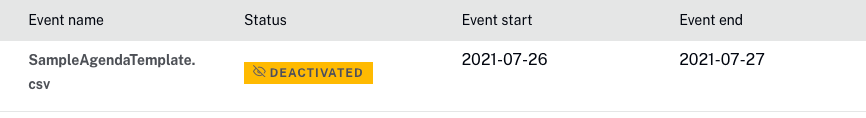
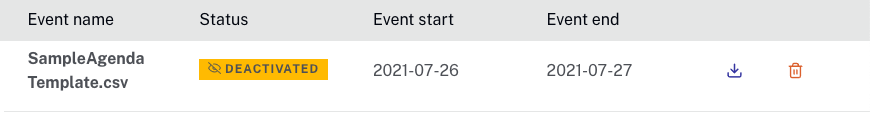
updates

diff --git a/_site/experiences/virtual-event/managing-agenda-virtual-event-experience.html b/_site/experiences/virtual-event/managing-agenda-virtual-event-experience.html
@@ -723,7 +723,7 @@ function doGTranslate(lang_pair) {if(lang_pair.value)lang_pair=lang_pair.value;i
         <figure class="bcls-figure"><img class="bcls-image--no-border" alt="" src="/assets/images/experiences/virtual-event/agenda-imported.png" /></figure>
       </li>
     </ol>
-    <p>If any errors occur during the agenda import, a message will be displayed. After the import, the <strong>Status</strong> will be <strong>DEACTIVATED</strong>. Agendas with a status of DEACTIVATED will not be displayed in the Virtual Event Experience.</p>
+    <p>If any errors occur during the agenda import, a message will be displayed. After the import, the <strong>Status</strong> will be <strong>DEACTIVATED</strong>. Agendas with a status of <strong>DEACTIVATED</strong> will not be displayed in the Virtual Event Experience. To delete the agenda, click the delete icon (<img class="bcls-image--no-border" alt="" src="/assets/images/experiences/virtual-event/icon-delete.png" />).</p>
   </section>
   <section class="bcls-section">
     <h2 id="title">Editing the agenda title</h2>

diff --git a/experiences/virtual-event/managing-agenda-virtual-event-experience.html b/experiences/virtual-event/managing-agenda-virtual-event-experience.html
@@ -25,7 +25,7 @@ layout: staging
         <figure class="bcls-figure"><img class="bcls-image--no-border" alt="" src="/assets/images/experiences/virtual-event/agenda-imported.png" /></figure>
       </li>
     </ol>
-    <p>If any errors occur during the agenda import, a message will be displayed. After the import, the <strong>Status</strong> will be <strong>DEACTIVATED</strong>. Agendas with a status of DEACTIVATED will not be displayed in the Virtual Event Experience.</p>
+    <p>If any errors occur during the agenda import, a message will be displayed. After the import, the <strong>Status</strong> will be <strong>DEACTIVATED</strong>. Agendas with a status of <strong>DEACTIVATED</strong> will not be displayed in the Virtual Event Experience. To delete the agenda, click the delete icon (<img class="bcls-image--no-border" alt="" src="/assets/images/experiences/virtual-event/icon-delete.png" />).</p>
   </section>
   <section class="bcls-section">
     <h2 id="title">Editing the agenda title</h2>

diff --git a/_site/training/brightcove-university.html b/_site/training/brightcove-university.html
@@ -1224,7 +1224,7 @@ function doGTranslate(lang_pair) {if(lang_pair.value)lang_pair=lang_pair.value;i
 
 <hr>
 <div class="last-updated">
-  Page last updated on 10 Jun 2021
+  Page last updated on 26 Jul 2021
 </div>
 
 
